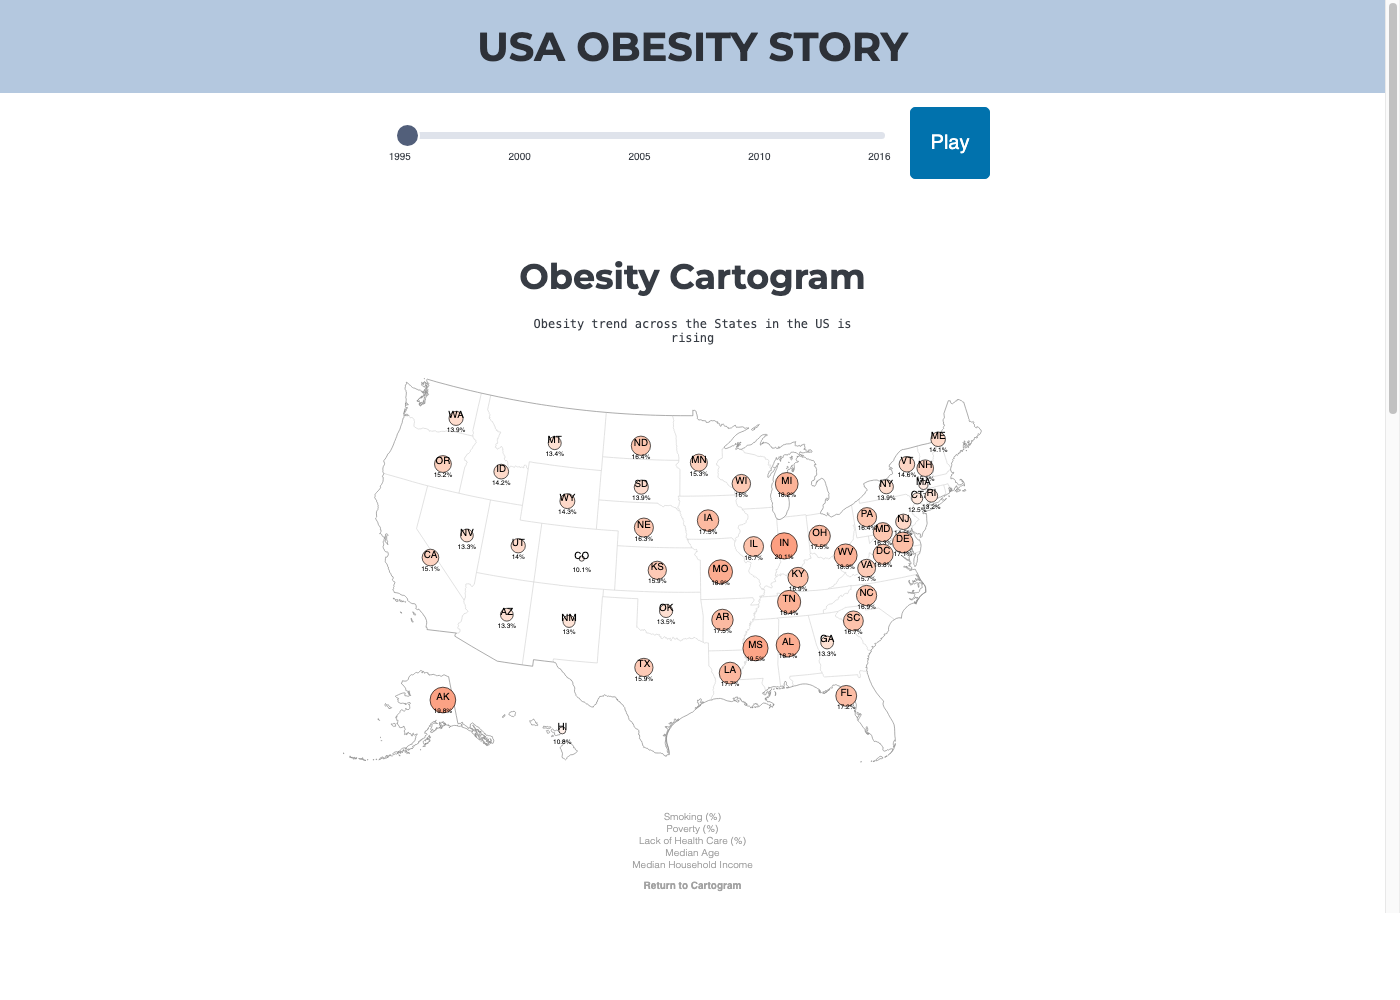
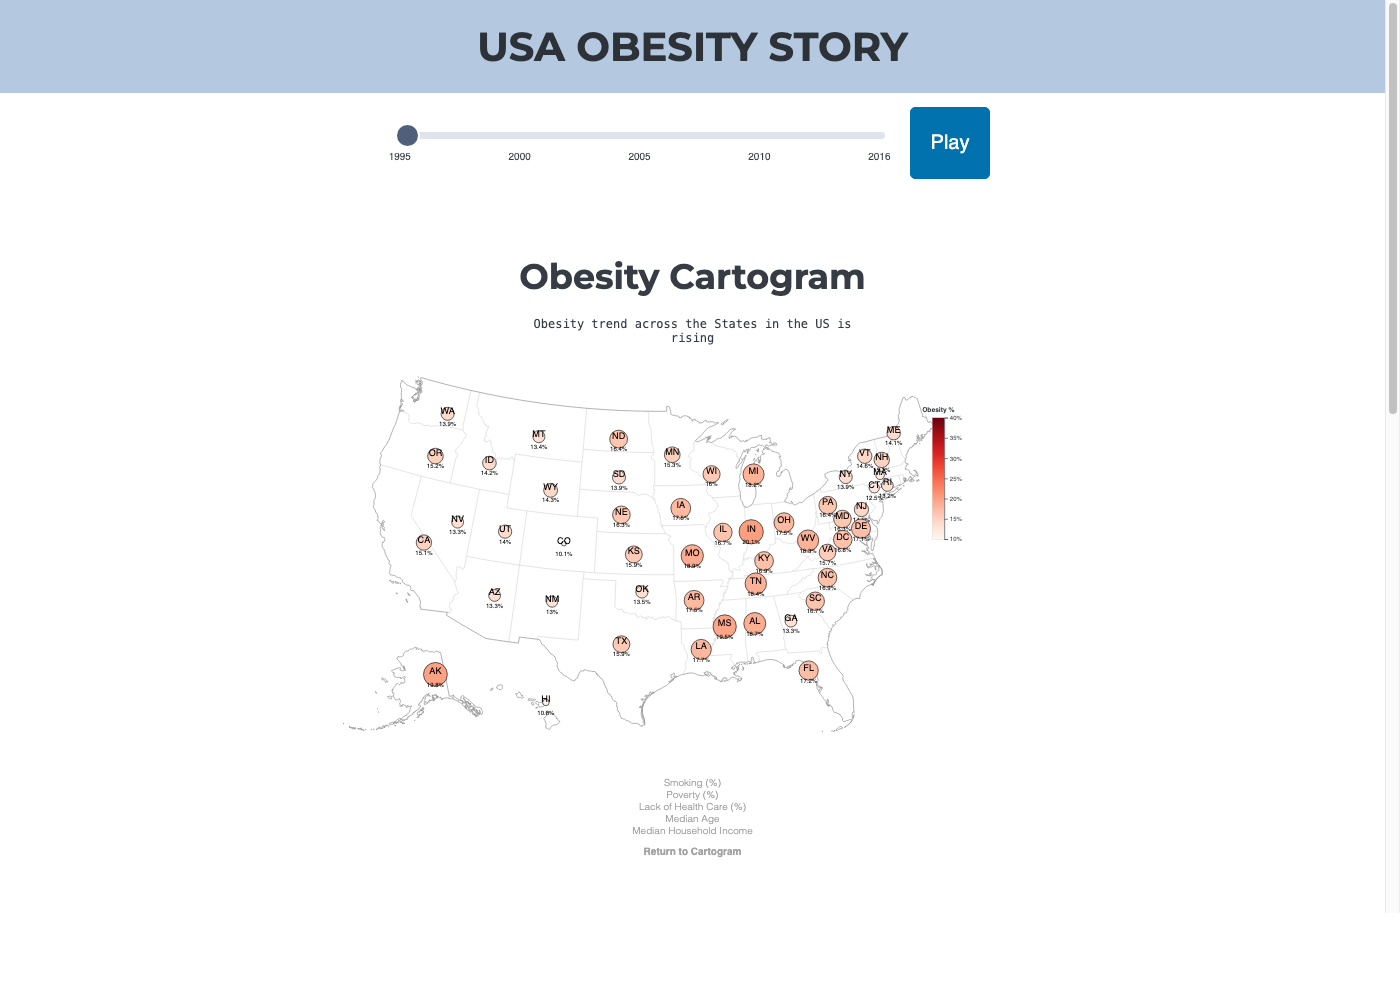
fix: replace hardcoded JPG legend with D3-driven SVG gradient legend
Replaces the old `<img style="position:absolute; top:500px">` JPG hack
with a proper SVG legend rendered inside the cartogram SVG using:
- A `<linearGradient>` driven by the same d3.interpolateReds color scale
- A `<rect>` displaying the gradient
- A d3.axisRight with percentage tick labels (10%-40%)
- Positioned relative to the SVG viewBox (not absolute pixels)
- Widened viewBox by 80px to accommodate legend labels

diff --git a/src/cartogram.js b/src/cartogram.js
@@ -54,7 +54,7 @@ const colorScale = d3.scaleSequential(d3.interpolateReds).domain([10, 40]);
 
 // creates, appends and returns base outline map of US
 const createBaseMap = (stateBoundaries, nation) => {
-  const svgWidth = width + margin.right + margin.left;
+  const svgWidth = width + margin.right + margin.left + 80;
   svg = d3.select("#cartogram-svg").attr("viewBox", `-30 -20 ${svgWidth} ${690}`);
 
   svg
@@ -76,6 +76,33 @@ const createBaseMap = (stateBoundaries, nation) => {
     .attr("stroke", "gray")
     .attr("stroke-linejoin", "round")
     .attr("d", d3.geoPath());
+
+  // Create SVG gradient legend for obesity color scale
+  const legendWidth = 20;
+  const legendHeight = 200;
+  const legendX = width + margin.left - 10;
+  const legendY = 80;
+
+  const defs = svg.append("defs");
+  const linearGradient = defs.append("linearGradient").attr("id", "obesity-gradient").attr("x1", "0%").attr("y1", "100%").attr("x2", "0%").attr("y2", "0%");
+
+  const [domainMin, domainMax] = colorScale.domain();
+  const steps = 10;
+  for (let i = 0; i <= steps; i++) {
+    const t = i / steps;
+    const value = domainMin + t * (domainMax - domainMin);
+    linearGradient.append("stop").attr("offset", `${t * 100}%`).attr("stop-color", colorScale(value));
+  }
+
+  const legendGroup = svg.append("g").attr("class", "legend").attr("transform", `translate(${legendX}, ${legendY})`);
+
+  legendGroup.append("rect").attr("width", legendWidth).attr("height", legendHeight).style("fill", "url(#obesity-gradient)").attr("stroke", "#ccc").attr("stroke-width", 0.5);
+
+  const legendScale = d3.scaleLinear().domain([domainMin, domainMax]).range([legendHeight, 0]);
+  const legendAxis = d3.axisRight(legendScale).ticks(5).tickFormat((d) => `${d}%`);
+  legendGroup.append("g").attr("transform", `translate(${legendWidth}, 0)`).call(legendAxis);
+
+  legendGroup.append("text").attr("x", legendWidth / 2).attr("y", -10).attr("text-anchor", "middle").style("font-size", "11px").style("font-weight", "bold").text("Obesity %");
 
   return svg.node();
 };